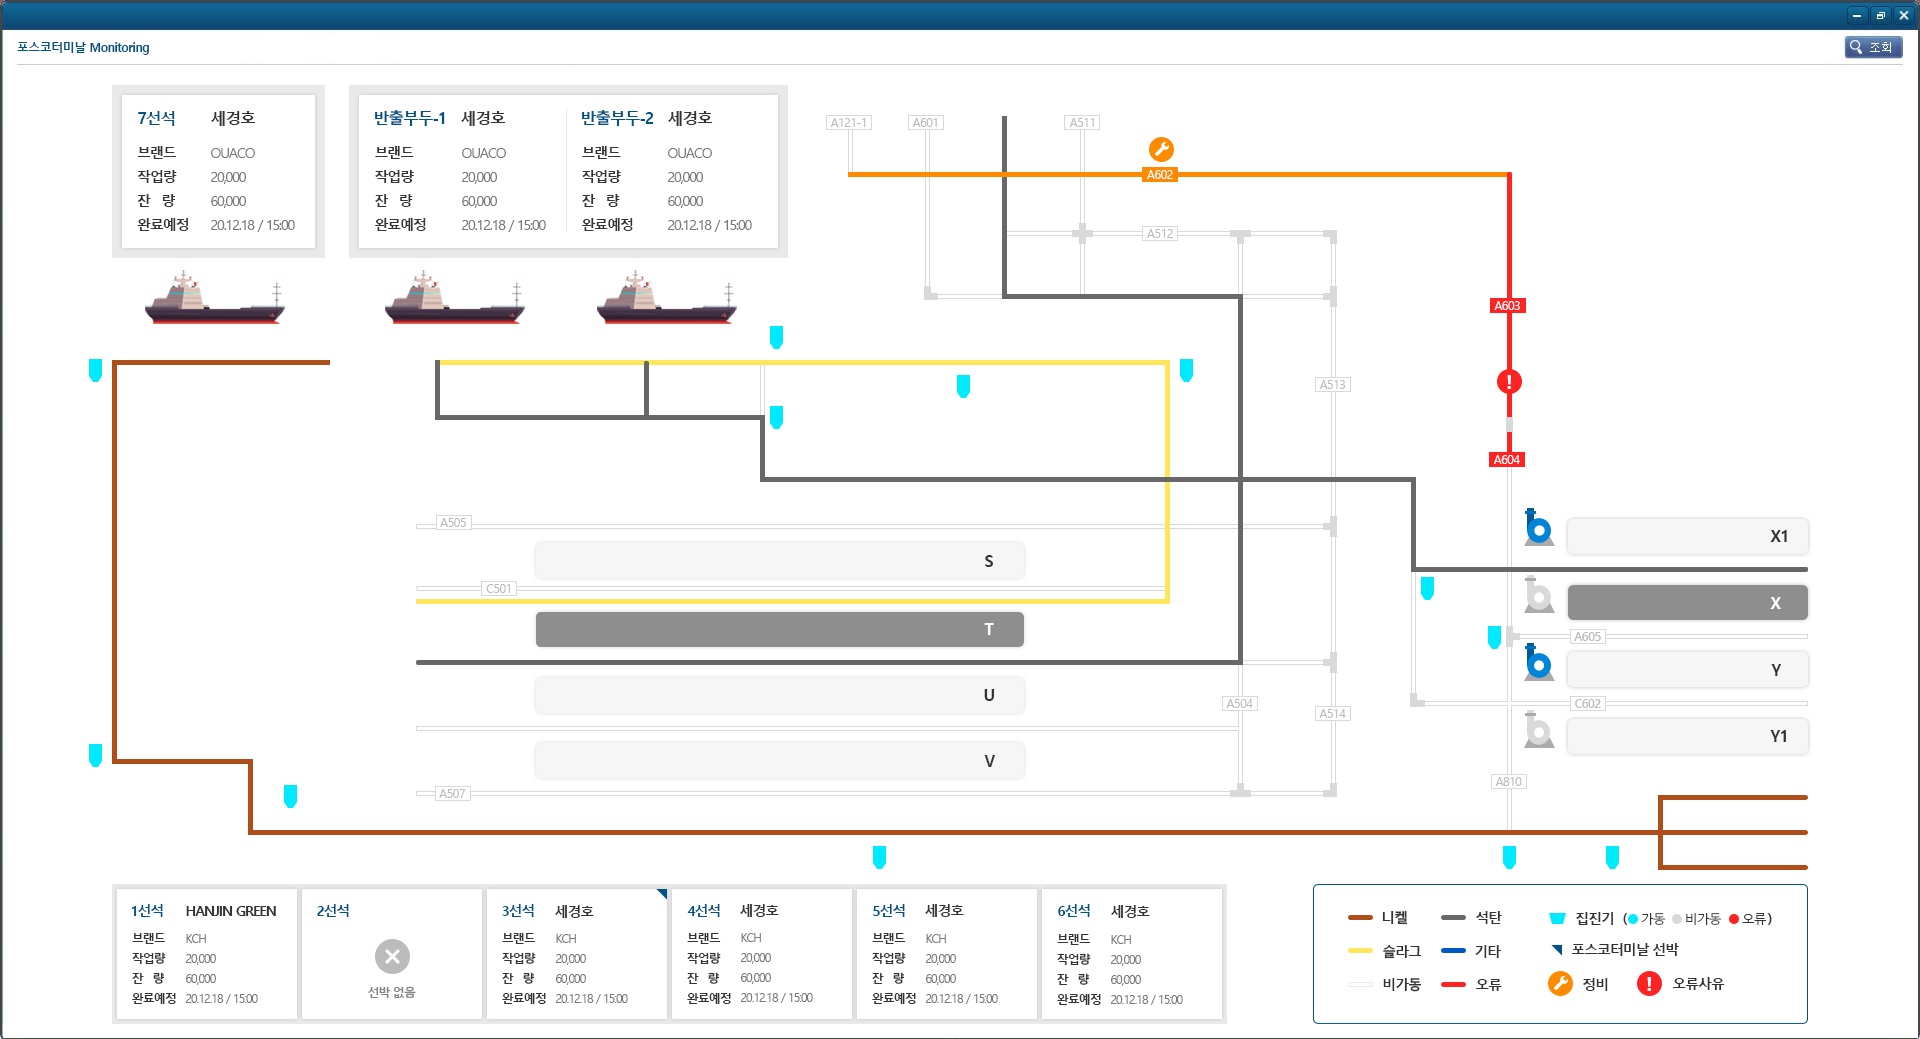
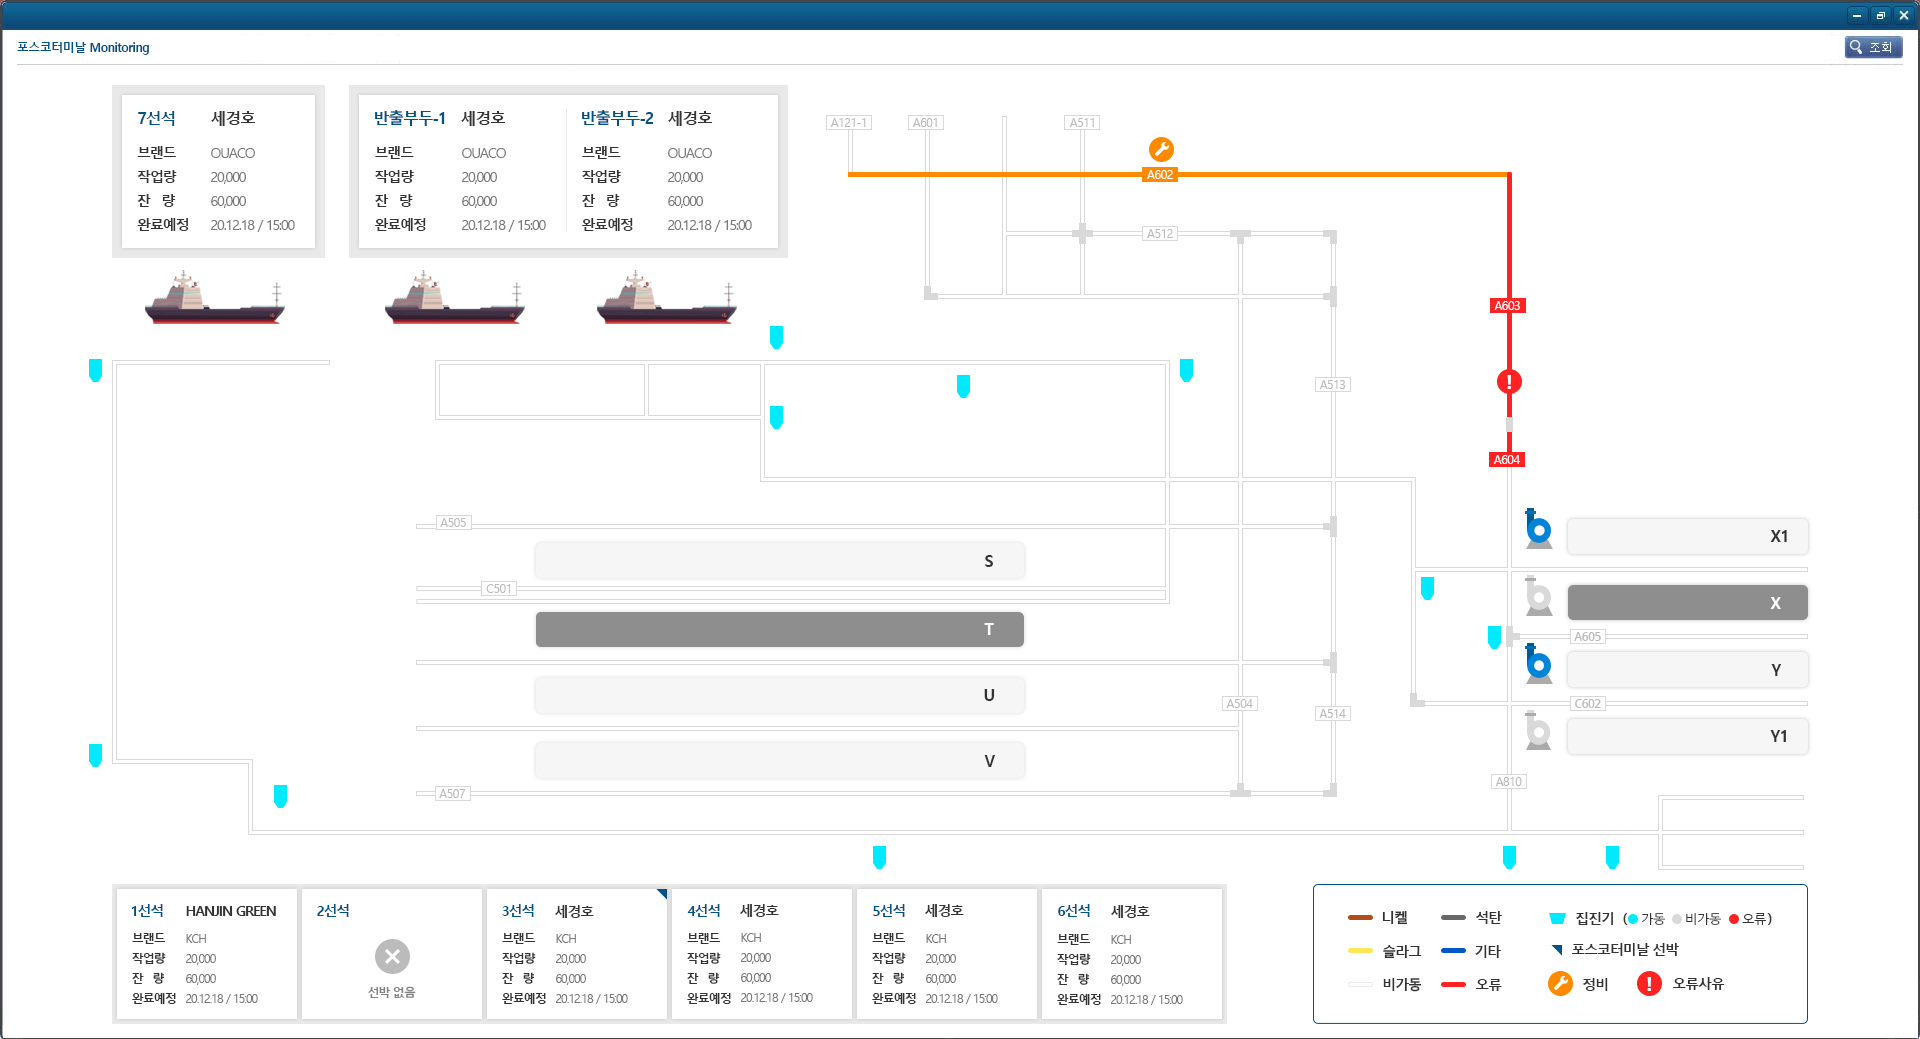
css수정

diff --git a/view.css b/view.css
@@ -1,4 +1,5 @@
-			body{margin:0; padding:0; font-family:'Malgun Gothic';}
+			body, h1,h2,h3,h4,h5,h6,p,span,strong,b, a{margin:0; padding:0; font-family:'Malgun Gothic'; text-decoration: blink;}
+
 			.main_bg{background:url('img/posco_1_2.jpg')no-repeat 100% center; height:1080px; width:1920px; margin:0 auto; position:relative;}
 			.cogwheel{position:relative; width:100%; height:100%;}
 			.cogwheel p{position:absolute; letter-spacing:-0.5px;}
@@ -10,79 +11,78 @@
 			
 
 			/* 니켈 라인 동작 영역 */
-			.nickel_bar_left1{left:112px; top:365px; width:218px; height:5px; background:url('img/nickel_bar_left.gif')repeat-x;}
-			.nickel_bar_bot1{left:112px; top:365px; width:5px; height:404px; background:url('img/nickel_bar_bottom.gif')repeat-y;}
-			.nickel_bar_right1{left:112px; bottom:279px; width:141px; height:5px; background:url('img/nickel_bar_right.gif')repeat-x;}
-			.nickel_bar_bot2{left:248px; bottom:208px; width:5px; height:76px; background:url('img/nickel_bar_bottom.gif')repeat-y;}
-			.nickel_bar_right2{left:248px; bottom:208px; width:1556px; height:5px; background:url('img/nickel_bar_right.gif')repeat-x;}
-			.nickel_bar_top1{right:257px; bottom:208px; width:5px; height:40px; background:url('img/nickel_bar_top.gif')repeat-y;}
-			.nickel_bar_bot3{right:257px; bottom:173px; width:5px; height:35px; background:url('img/nickel_bar_bottom.gif')repeat-y;}
-			.nickel_bar_right3{right:116px; bottom:243px; width:146px; height:5px; background:url('img/nickel_bar_right.gif')repeat-x;}
-			.nickel_bar_right4{right:116px; bottom:173px; width:146px; height:5px; background:url('img/nickel_bar_right.gif')repeat-x;}
+			.nickel_bar_left1{left:112px; top:381px; width:218px; height:5px; background:url('img/nickel_bar_left.gif')repeat-x;}
+			.nickel_bar_bot1{left:112px; top:381px; width:5px; height:404px; background:url('img/nickel_bar_bottom.gif')repeat-y;}
+			.nickel_bar_right1{left:112px; bottom:295px; width:141px; height:5px; background:url('img/nickel_bar_right.gif')repeat-x;}
+			.nickel_bar_bot2{left:248px; bottom:224px; width:5px; height:76px; background:url('img/nickel_bar_bottom.gif')repeat-y;}
+			.nickel_bar_right2{left:248px; bottom:224px; width:1556px; height:5px; background:url('img/nickel_bar_right.gif')repeat-x;}
+			.nickel_bar_top1{right:257px; bottom:224px; width:5px; height:40px; background:url('img/nickel_bar_top.gif')repeat-y;}
+			.nickel_bar_bot3{right:257px; bottom:189px; width:5px; height:35px; background:url('img/nickel_bar_bottom.gif')repeat-y;}
+			.nickel_bar_right3{right:116px; bottom:259px; width:146px; height:5px; background:url('img/nickel_bar_right.gif')repeat-x;}
+			.nickel_bar_right4{right:116px; bottom:189px; width:146px; height:5px; background:url('img/nickel_bar_right.gif')repeat-x;}
 
 			/* 슬라그 라인 동작 영역 */
-			.slog_bar_right1{left:416px; bottom:439px; width:754px; height:5px; background:url('img/slog_bar_right.gif')repeat-x;}
-			.slog_bar_top1{right:750px; bottom:439px; width:5px; height:244px; background:url('img/slog_bar_top.gif')repeat-y;}
-			.slog_bar_left1{left:416px; top:365px; width:754px; height:5px; background:url('img/slog_bar_left.gif')repeat-x;}
+			.slog_bar_right1{left:416px; bottom:455px; width:754px; height:5px; background:url('img/slog_bar_right.gif')repeat-x;}
+			.slog_bar_top1{right:750px; bottom:455px; width:5px; height:244px; background:url('img/slog_bar_top.gif')repeat-y;}
+			.slog_bar_left1{left:416px; top:381px; width:754px; height:5px; background:url('img/slog_bar_left.gif')repeat-x;}
 
 			/* 석탄 라인 동작 영역1 */
-			.coal_bar_left1_1{left:416px; bottom:378px; width:827px; height:5px; background:url('img/coal_bar_left.gif')repeat-x;}
-			.coal_bar_bottom1_1{right:677px; bottom:378px; width:5px; height:370px; background:url('img/coal_bar_bottom.gif')repeat-y;}
-			.coal_bar_right1_1{right:678px; top:299px; width:240px; height:5px; background:url('img/coal_bar_right.gif')repeat-x;}
-			.coal_bar_bottom1_2{right:913px; top:129px; width:5px; height:175px; background:url('img/coal_bar_bottom.gif')repeat-y;}
+			.coal_bar_left1_1{left:416px; bottom:394px; width:827px; height:5px; background:url('img/coal_bar_left.gif')repeat-x;}
+			.coal_bar_bottom1_1{right:677px; bottom:394px; width:5px; height:370px; background:url('img/coal_bar_bottom.gif')repeat-y;}
+			.coal_bar_right1_1{right:678px; top:315px; width:240px; height:5px; background:url('img/coal_bar_right.gif')repeat-x;}
+			.coal_bar_bottom1_2{right:913px; top:145px; width:5px; height:175px; background:url('img/coal_bar_bottom.gif')repeat-y;}
 
 			/* 석탄 라인 동작 영역2 */
-			.coal_bar_left2_1{right:112px; bottom:471px; width:397px; height:5px; background:url('img/coal_bar_left.gif')repeat-x;}
-			.coal_bar_top2_1{right:504px; bottom:471px; width:5px; height:94px; background:url('img/coal_bar_top.gif')repeat-y;}
-			.coal_bar_left2_2{right:504px; bottom:561px; width:655px; height:5px; background:url('img/coal_bar_left.gif')repeat-x;}
-			.coal_bar_top2_2{left:760px; bottom:561px; width:5px; height:67px; background:url('img/coal_bar_top.gif')repeat-y;}
-			.coal_bar_left2_3{left:435px; top:420px; width:330px; height:5px; background:url('img/coal_bar_left.gif')repeat-x;}
-			.coal_bar_top2_3{left:435px; top:365px; width:5px; height:60px; background:url('img/coal_bar_top.gif')repeat-y;}
-			.coal_bar_top2_4{left:644px; top:365px; width:5px; height:60px; background:url('img/coal_bar_top.gif')repeat-y;}
+			.coal_bar_left2_1{right:112px; bottom:487px; width:397px; height:5px; background:url('img/coal_bar_left.gif')repeat-x;}
+			.coal_bar_top2_1{right:504px; bottom:487px; width:5px; height:95px; background:url('img/coal_bar_top.gif')repeat-y;}
+			.coal_bar_left2_2{right:504px; bottom:577px; width:655px; height:5px; background:url('img/coal_bar_left.gif')repeat-x;}
+			.coal_bar_top2_2{left:760px; bottom:577px; width:5px; height:67px; background:url('img/coal_bar_top.gif')repeat-y;}
+			.coal_bar_left2_3{left:435px; top:436px; width:330px; height:5px; background:url('img/coal_bar_left.gif')repeat-x;}
+			.coal_bar_top2_3{left:435px; top:381px; width:5px; height:60px; background:url('img/coal_bar_top.gif')repeat-y;}
+			.coal_bar_top2_4{left:644px; top:381px; width:5px; height:60px; background:url('img/coal_bar_top.gif')repeat-y;}
 
 			/* CSU 영역 */
-			.csu_on{left:219px; top:330px; width:60px; height:50px; background:url('img/csu_on.gif')no-repeat;}
+			.csu_on{left:219px; top:346px; width:60px; height:50px; background:url('img/csu_on.gif')no-repeat;}
 			.csu_on span{position:relative; left:13px; top:29px; font-weight:bold; font-size:12px;}
-			.csu_off{left:141px; top:330px; width:60px; height:50px; background:url('img/csu_off.gif')no-repeat;}
+			.csu_off{left:141px; top:346px; width:60px; height:50px; background:url('img/csu_off.gif')no-repeat;}
 			.csu_off span{position:relative; left:13px; top:29px; font-weight:bold; font-size:12px;}
 
 
 			/* 리크레이머 영역 */
 			.reclaimer_area > div{position:absolute;}
-			.reclaimer_area > div p{letter-spacing:-0.5px;}
-			.rc511{left:577px; bottom:425px; width:55px; height:51px; background:url('img/reclaimer_on.gif')no-repeat;}
-			.rc511 .rc_on{position:absolute; bottom:-26px; left:-10px;}
-			.rc511 .rc_name{position:relative; left:7px; top:-2px; font-weight:bold; font-size:12px; transform:rotate(-40deg)}
+			.rc511{left:577px; bottom:427px; width:55px; height:51px; background:url('img/reclaimer_on.gif')no-repeat;}
+			.rc511 .rc_on{position:absolute; bottom:-12px; left:-10px;}
+			.rc511 .rc_name{position:relative; left:7px; top:10px; font-weight:bold; font-size:12px; transform:rotate(-40deg)}
 			.rc512{left:894px; bottom:450px; width:88px; height:30px; background:url('img/reclaimer_off.gif')no-repeat;}
-			.rc512 .rc_off{position:relative; left:35px; top:-4px; font-weight:bold; font-size:12px;}
+			.rc512 .rc_off{position:relative; left:35px; top:7px; font-weight:bold; font-size:12px;}
 
 			.rc513{left:543px; bottom:317px; width:88px; height:30px; background:url('img/reclaimer_off.gif')no-repeat;}
-			.rc513 .rc_off{position:relative; left:35px; top:-4px; font-weight:bold; font-size:12px;}
+			.rc513 .rc_off{position:relative; left:35px; top:7px; font-weight:bold; font-size:12px;}
 
 			.rc514{left:894px; bottom:317px; width:88px; height:30px; background:url('img/reclaimer_off.gif')no-repeat;}
-			.rc514 .rc_off{position:relative; left:35px; top:-4px; font-weight:bold; font-size:12px;}
+			.rc514 .rc_off{position:relative; left:35px; top:7px; font-weight:bold; font-size:12px;}
 
 			.rc611{right:191px; bottom:451px; width:55px; height:51px; background:url('img/reclaimer_on.gif')no-repeat;}
-			.rc611 .rc_on{position:absolute; bottom:-26px; left:-10px;}
-			.rc611 .rc_name{position:relative; left:7px; top:-2px; font-weight:bold; font-size:12px; transform:rotate(-40deg)}
+			.rc611 .rc_on{position:absolute; bottom:-10px; left:-10px;}
+			.rc611 .rc_name{position:relative; left:7px; top:10px; font-weight:bold; font-size:12px; transform:rotate(-40deg)}
 			.rc612{right:192px; bottom:343px; width:88px; height:30px; background:url('img/reclaimer_off.gif')no-repeat;}
-			.rc612 .rc_off{position:relative; left:35px; top:-4px; font-weight:bold; font-size:12px;}
+			.rc612 .rc_off{position:relative; left:35px; top:8px; font-weight:bold; font-size:12px;}
 
 			/* 스태커 영역 */
 			.stack_area > div{position:absolute;}
 			.st501{left:762px; bottom:515px; width:88px; height:30px; background:url('img/stacker_off.gif')no-repeat;}
-			.st501 .st_off{position:relative; left:26px; top:-8px; font-weight:bold; font-size:12px;}
+			.st501 .st_off{position:relative; left:26px; top:4px; font-weight:bold; font-size:12px;}
 		    .st502{left:740px; bottom:365px; z-index:1;}
 			.st503{left:762px; bottom:248px; width:88px; height:30px; background:url('img/stacker_off.gif')no-repeat;}
-			.st503 .st_off{position:relative; left:26px; top:-8px; font-weight:bold; font-size:12px;}
+			.st503 .st_off{position:relative; left:26px; top:4px; font-weight:bold; font-size:12px;}
 
 			/* SL 영역 */
 			.sl_area > div{position:absolute;}
-			.sl_area > div .sl_name{position:relative; left:14px; top:31px; font-weight:bold; font-size:12px;}
-			.sl1_1{left:675px; top:332px;}
-			.sl1_2{left:600px; top:332px;}
-			.sl2_1{left:391px; top:332px;}
-			.sl2_2{left:466px; top:332px;}
+			.sl_area > div .sl_name{position:relative; left:14px; top:27px; font-weight:bold; font-size:12px;}
+			.sl1_1{left:675px; top:348px;}
+			.sl1_2{left:600px; top:348px;}
+			.sl2_1{left:391px; top:348px;}
+			.sl2_2{left:466px; top:348px;}
 
 			/* 집진기 */
 			.collector_area > div{position:absolute;}
@@ -95,87 +95,98 @@
 
 			/* 터널 영역 */
 			.tunnel_area > div p{z-index:2;}
-			.ton_802{left:111px; top:364px;}
-			.ton_804{left:111px; bottom:278px;}
-			.ton_805{left:239px; bottom:271px;}
-			.ton_806{left:247px; bottom:207px;}
-			.ton_807{left:871px; bottom:207px;}
-			.ton_809{right:401px; bottom:207px; }
-			.ton_601{right:495px; bottom:470px;}
-			.ton_603{right:503px; bottom:553px;}
-			.ton_602{right:407px; top:176px;}
-			.ton_605{right:804px; bottom:560px;}
-			.ton_606{right:968px; bottom:560px;}
-			.ton_607{left:759px; bottom:560px;}
-			.ton_608{left:752px; top:412px;}
-			.ton_414{left:752px; top:364px;}
-			.ton_413{left:929px; top:364px;}
-			.ton_507{right:749px; top:364px;}
-			.ton_501_1{right:905px; top:228px;}
-			.ton_501_2{right:906px; top:294px;}
-			.ton_502_1{right:828px; top:294px;}
-			.ton_502_2{right:669px; top:291px;}
-			.ton_503_1{right:669px; top:521px;}
-			.ton_503_2{right:669px; bottom:370px;}
+			.ton_802{left:111px; top:380px;}
+			.ton_804{left:111px; bottom:294px;}
+			.ton_805{left:239px;bottom: 287px;}
+			.ton_806{left:247px;bottom: 223px;}
+			.ton_807{left:871px;bottom: 223px;}
+			.ton_809{right:401px;bottom: 223px;}
+			.ton_601{right:495px;bottom: 486px;}
+			.ton_603{right:503px;bottom: 569px;}
+			.ton_602{right:407px;top: 192px;}
+			.ton_605{right:804px;bottom: 576px;}
+			.ton_606{right:968px;bottom: 576px;}
+			.ton_607{left:759px;bottom: 576px;}
+			.ton_608{left:752px;top: 428px;}
+			.ton_414{left:752px;top: 380px;}
+			.ton_413{left:929px;top: 380px;}
+			.ton_507{right:749px;top: 380px;}
+			.ton_501_1{right:905px;top: 244px;}
+			.ton_501_2{right:906px;top: 310px;}
+			.ton_502_1{right:828px;top: 310px;}
+			.ton_502_2{right:669px;top: 307px;}
+			.ton_503_1{right:669px;top: 537px;}
+			.ton_503_2{right:669px;bottom: 386px;}
 
 			/* 태그영역 */
 			/* 니켈 태그 */
 			.nickel_tag p{background:#ae4e1a; color:#fff; font-weight:bold; font-size:12px; padding:1px 4px; text-align:center;}
-			.a801{left:296px; top:362px;}
+			.a801{left:296px;top: 374px;}
 			.a802{left:73px; top:419px; width:78px;}
 			.a803{left:73px; top:450px; width:78px;}
 			.a804{left:95px; bottom:379px;}
-			.a805{left:170px; bottom:276px;}
-			.a806{left:232px; bottom:243px;}
-			.a807{left:550px; bottom:205px;}
-			.a808{right:770px; bottom:205px;}
-			.a809{right:315px; bottom:205px;}
-			.m202{right:111px; bottom:242px;}
-			.m202r{right:112px; bottom:206px;}
-			.m202b{right:112px; bottom:170px;}
+			.a805{left:170px;bottom: 288px;}
+			.a806{left:232px;bottom: 254px;}
+			.a807{left:550px;bottom: 217px;}
+			.a808{right:770px;bottom: 217px;}
+			.a809{right:315px;bottom: 217px;}
+			.m202{right: 116px;bottom: 252px;}
+			.m202r{right: 116px;bottom: 218px;}
+			.m202b{right: 116px;bottom: 182px;}
 
 			/* 슬라그 태그 */
 			.slog_tag p{background:#ffe65a; color:#fff; font-weight:bold; font-size:12px; padding:1px 4px; text-align:center;}
-			.c501{left:436px; top:602px;}
-			.c502{right:735px; top:503px;}
-			.c507{left:436px; top:602px;}
-			.c413{right:860px; top:362px;}
-			.c414{left:829px; top:362px;}
+			.c501{left:436px;top: 575px;}
+			.c502{right:735px;top: 516px;}
+			.c507{left: 436px;top: 614px;}
+			.c413{right:860px;top: 374px;}
+			.c414{left:829px;top: 374px;}
 			.c115{left:545px; top:362px;}
 
 			/* 석탄 태그 */
 			.coal_tag1 p, .coal_tag2 p{background:#686868; color:#fff; font-weight:bold; font-size:12px; padding:1px 4px; text-align:center;}
 			.a501{right:897px; top:122px;}
-			.a502{right:741px; top:296px;}
+			.a502{right:741px;top: 309px;}
 			.a503{right:662px; top:382px;}
-			.a506{left:435px; bottom:376px;}
+			.a506{left:435px;bottom: 387px;}
 
-			.c601{right:313px; bottom:468px;}
+			.c601{right:313px;bottom: 480px;}
 			.c603{right:488px; bottom:516px;}
-			.c604{right:612px; bottom:559px;}
-			.c605{right:860px; bottom:559px;}
-			.c606{left:828px; bottom:559px;}
-			.c607{left:743px; top:449px;}
-			.c608{left:546px; top:419px;}
+			.c604{right:612px;bottom: 570px;}
+			.c605{right:860px;bottom: 570px;}
+			.c606{left:828px;bottom: 570px;}
+			.c607{left:743px;top: 461px;}
+			.c608{left:546px;top: 430px;}
 
 		/* 집진기 태그 */
 		.collector_tag p{font-size:12px; font-weight:bold; color:#333;}
-		.bf01{left:80px; top:350px;}
-		.bf02{left:80px; bottom:305px;}
-		.bf03{left:300px; bottom:243px;}
-		.bf04{left:890px; bottom:182px;}
-		.bf05{right:372px; bottom:182px;}
-		.bf06{right:270px; bottom:182px;}
-		.bf07{right:436px; bottom:402px;}
-		.a604dc{right:436px; bottom:451px;}
-		.c507dc{right:708px; top:350px;}
-		.c413dc{right:896px; top:387px;}
-		.c414dc{left:786px; top:338px;}
-		.c607dc{left:786px; top:417px;}
+		.bf01{left: 82px;top: 362px;}
+		.bf02{left: 82px;bottom: 316px;}
+		.bf03{left:290px;bottom: 255px;}
+		.bf04{left:890px;bottom: 194px;}
+		.bf05{right:372px;bottom: 194px;}
+		.bf06{right:270px;bottom: 194px;}
+		.bf07{right:436px;bottom: 414px;}
+		.a604dc{right:436px;bottom: 463px;}
+		.c507dc{right:708px;top: 363px;}
+		.c413dc{right: 899px;top: 399px;}
+		.c414dc{left:786px;top: 350px;}
+		.c607dc{left:786px;top: 430px;}
 
 		/* 펌프 태그 */
 		.pump_tag p{font-size:12px; font-weight:bold; color:#333;}
-		.pump1{right:359px; bottom:483px;}
-		.pump2{right:359px; bottom:416px;}
-		.pump3{right:359px; bottom:348px;}
-		.pump4{right:359px; bottom:280px;}
+		.pump1{right:359px;bottom: 493px;}
+		.pump2{right:359px;bottom: 426px;}
+		.pump3{right:359px;bottom: 358px;}
+		.pump4{right:359px;bottom: 292px;}
+
+		/* 상단 메시지 */
+		.notice_area{top:86px; width:100%; height:60px; background:rgba(0,83,134,0.9); position:absolute; z-index:3;}
+
+		.notice_area .notice{width:1696px; margin:0 auto;}
+		.notice_area .notice h2{color:#fff; font-size:16px; padding:14px 0;}
+		.notice_area .notice h2:after{display:block; content:''; clear:both;}
+		.notice_area .notice h2 strong{display:inline-block; background:#158bd4; padding:5px 20px;}
+
+		.notice_area .notice h2 span.data{display:inline-block; margin:0 20px;}
+		.notice_area .notice h2 a{float:right; color:#fff; margin:7px 0;}

diff --git a/view1_2.html b/view1_2.html
@@ -16,6 +16,11 @@
 			</div>
 			-->
 			<div class="cogwheel">
+				<div class="notice_area">
+					<div class="notice">
+						<h2><strong class="notice_title">알림</strong><span class="data">21.01.12</span>포스코 터미날 알림글영역입니다. 포스코 터미날 알림글영역입니다. 포스코 터미날 알림글영역입니다.<a href="#"><img src="img/close.gif"/></a></h2>
+					</div>
+				</div>
 				<div class="tunnel_area">
 					<div class="tunnel_on">
 						<p class="ton_802"><img src="img/passage1_on.gif"></p>
@@ -181,7 +186,7 @@
 						<p class="m202b">M202B</p>
 					</div>
 					<div class="slog_tag">
-						<p class="c501">C501</p>
+						<!--<p class="c501">C501</p>-->
 						<p class="c502">C502</p>
 						<p class="c507">C507</p>
 						<p class="c413">C413</p>
